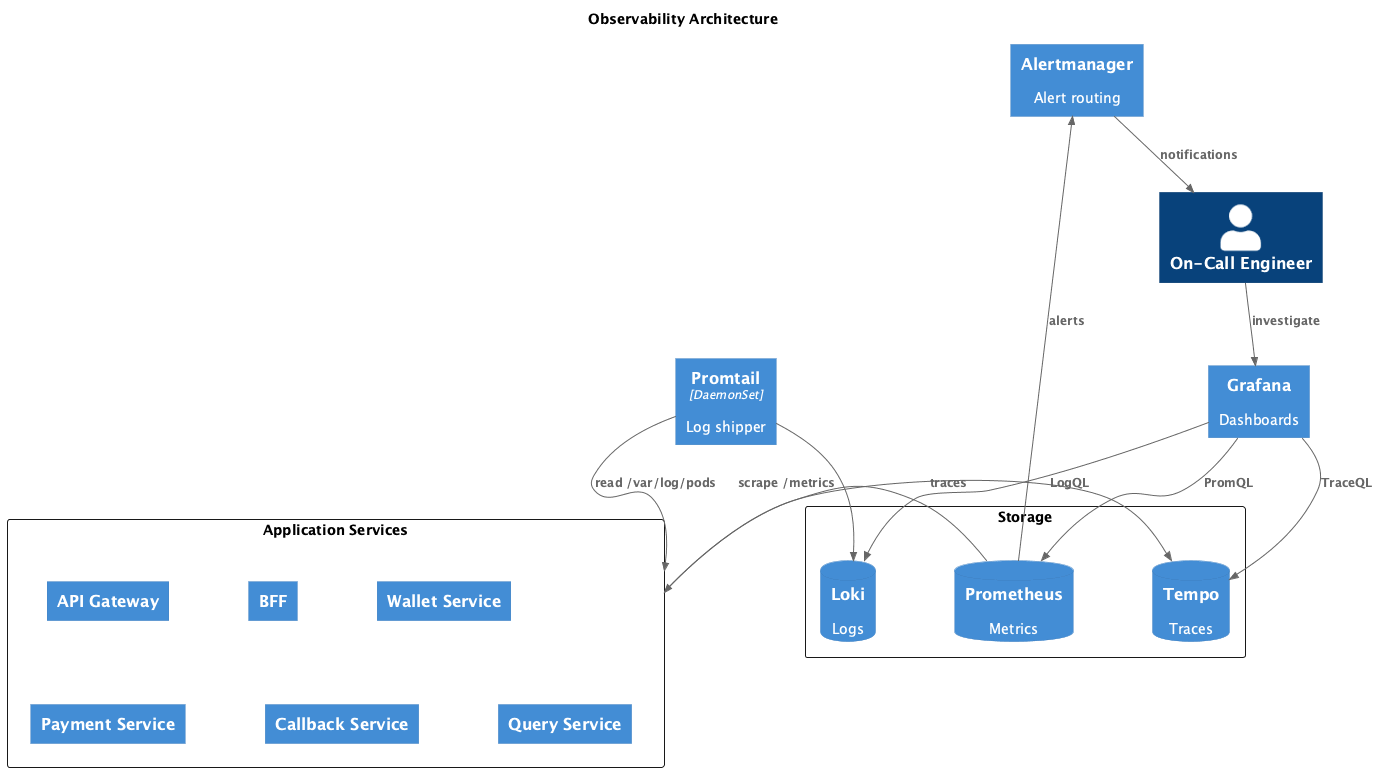
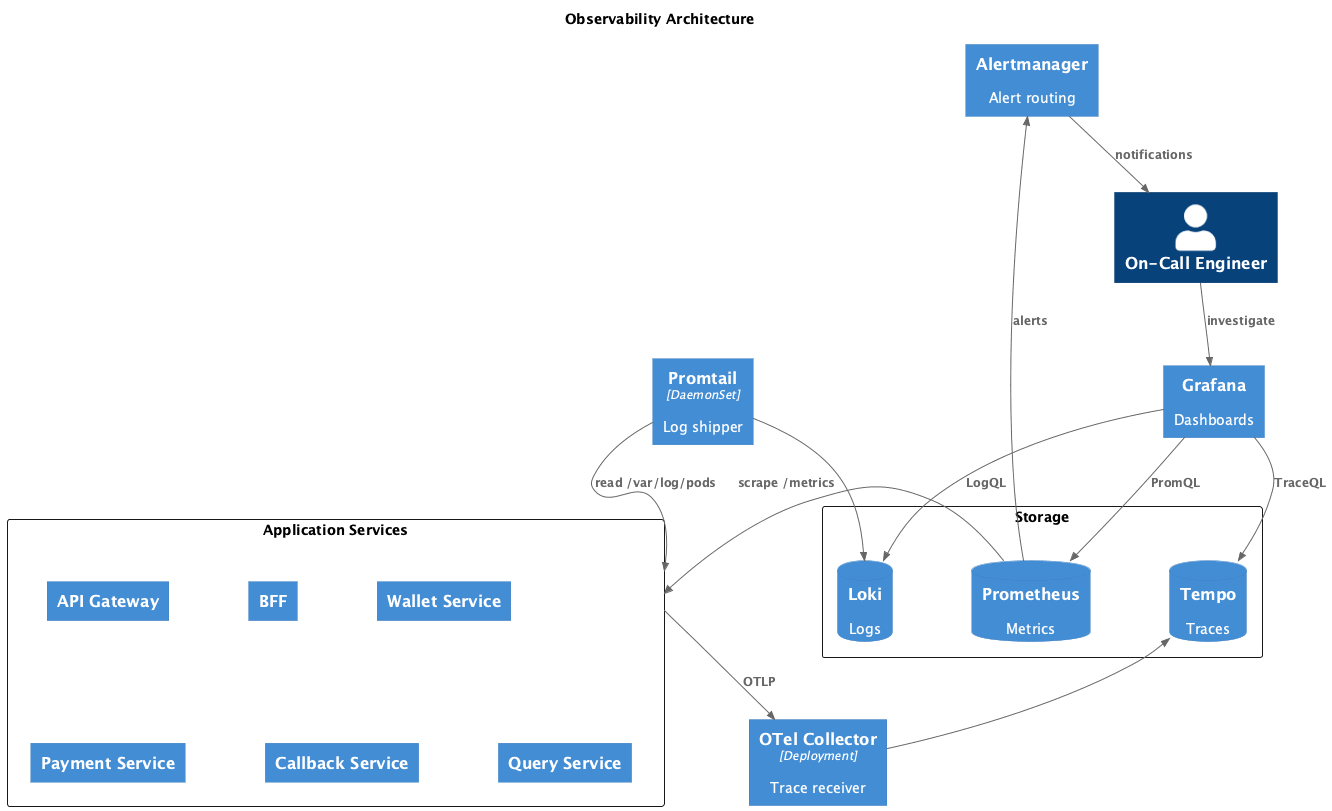
feedback

diff --git a/design/payment/resilience.md b/design/payment/resilience.md
@@ -37,14 +37,14 @@ Rate limits:
 
 - API Gateway (Kong + Redis): 10k RPS global, 100 RPS per customer_id из `X-Customer-ID` header (ставит BFF после auth), для неаутентифицированных — per IP
 
-| Взаимодействие                | Таймаут | Повторы                            | Circuit Breaker  | Bulkhead           | Rate Limit | Fallback             |
-| ----------------------------- | ------- | ---------------------------------- | ---------------- | ------------------ | ---------- | -------------------- |
-| BFF → Wallet                  | 2с      | 2 sync (100ms)                     | нет              | HTTP pool: 100     | —          | нет                  |
-| BFF → Query                   | 2с      | 2 sync (100ms)                     | нет              | HTTP pool: 60      | —          | stale cache (TTL 5м) |
-| Payment → Anti-Fraud          | 500ms   | 1 sync                             | 50% err / 10 req | gRPC pool: 50      | —          | ALLOW (fail-open)    |
-| Payment → Provider            | 30с     | 3 sync (1-2-4с) + 3 async (1-2-4м) | 50% err / 10 req | HTTP pool: 200     | 1000 rps   | DLQ                  |
-| Callback → Payment            | 2с      | 3 sync (exp backoff)               | нет              | —                  | —          | DLQ                  |
-| Notification → SMS/Email/Push | 10с     | 3 sync + 3 async (5м)              | 50% err / 10 req | HTTP pool: 100 × 3 | 500 rps    | DLQ                  |
+| Взаимодействие                | Таймаут | Повторы                            | Circuit Breaker  | Bulkhead           | Rate Limit | Fallback                |
+| ----------------------------- | ------- | ---------------------------------- | ---------------- | ------------------ | ---------- | ----------------------- |
+| BFF → Wallet                  | 2с      | 2 sync (100ms)                     | нет              | HTTP pool: 100     | —          | нет                     |
+| BFF → Query                   | 2с      | 2 sync (100ms)                     | нет              | HTTP pool: 60      | —          | нет                     |
+| Payment → Anti-Fraud          | 500ms   | 1 sync                             | 50% err / 10 req | gRPC pool: 50      | —          | Degraded mode (см ниже) |
+| Payment → Provider            | 30с     | 3 sync (1-2-4с) + 3 async (1-2-4м) | 50% err / 10 req | HTTP pool: 200     | 1000 rps   | DLQ                     |
+| Callback → Payment            | 2с      | 3 sync (exp backoff)               | нет              | —                  | —          | DLQ                     |
+| Notification → SMS/Email/Push | 10с     | 3 sync + 3 async (5м)              | 50% err / 10 req | HTTP pool: 100 × 3 | 500 rps    | DLQ                     |
 
 ## Обоснования
 
@@ -79,10 +79,10 @@ Rate limits:
    Потому что SLO 3с, аналогично Wallet. Query делает SELECT из read-модели — должно быть быстро (~50ms). 2с — запас на сложные запросы (фильтры, пагинация).
 
 2. Retry: 2 sync (100ms)
-   Потому что read-запросы идемпотентны, retry безопасен. При таймауте — сразу fallback на cache, retry только для transient errors (503, connection reset).
+   Потому что read-запросы идемпотентны, retry безопасен.
 
 3. Circuit Breaker: нет
-   Потому что есть fallback на кэш. CB избыточен — при сбое Query сразу отдаём из кэша, не нужно ждать открытия CB.
+   Нет fallback — с CB или без, пользователь получит ошибку. CB добавит cooldown при восстановлении сервиса.
 
 4. Bulkhead: HTTP pool 60
    Отдельный HTTP-пул в BFF для вызовов Query: ~600 RPS × latency 100ms = 60 соединений.
@@ -91,8 +91,8 @@ Rate limits:
 5. Rate Limit: нет (на уровне BFF)
    Потому что rate limit уже применён на API Gateway. Query — read-only сервис, легко масштабируется горизонтально. Дополнительный rate limit избыточен.
 
-6. Fallback: stale cache (Redis, TTL 5м)
-   Потому что история платежей — не real-time данные. Если Query недоступен, отдаём последние закэшированные данные. Пользователь видит историю 5-минутной давности — лучше, чем ошибку. Свежий платёж может не отобразиться сразу — приемлемо.
+6. Fallback: нет
+   Клиент кэширует локально.
 
 **Payment → Anti-Fraud**
 
@@ -114,8 +114,11 @@ Rate limits:
 5. Rate Limit: нет
    Потому что Anti-Fraud — внутренний сервис, масштабируется вместе с Payment. Нагрузка на Anti-Fraud = нагрузка на Payment (1:1). Rate limit на входе в Payment уже защищает Anti-Fraud.
 
-6. Fallback: ALLOW
-   Потому что бизнес-решение: риск пропустить fraudulent платёж при сбое Anti-Fraud меньше, чем потерять 100% платежей.
+6. Fallback: Degraded mode
+   При недоступности Anti-Fraud — ограниченный режим вместо полного fail-open или fail-closed. Платежи до 50 000₽ разрешаются, свыше — отклоняются.
+
+   **Почему не fail-open (ALLOW all):** риск fraud и нарушение регуляторных требований.
+   **Почему не fail-closed (DENY all):** 100% платежей падают, DoS-вектор через атаку на Anti-Fraud.
 
 **Payment → Provider**
 

diff --git a/design/payment/observability.md b/design/payment/observability.md
@@ -24,12 +24,15 @@ SLI/SLO: см. [resilience.md](resilience.md#slislo).
 - `wallet_reserve_total`, `wallet_commit_total`, `wallet_release_total` — операции
 - `wallet_reserve_duration_seconds` — латентность резервирования
 - `wallet_balance_check_failed` — отказы
+- `wallet_outbox_pending_count` — записи в outbox, ожидающие публикации
 
 ### Payment Service
 
 - `payment_created_total`, `payment_completed_total`, `payment_failed_total` — статусы платежей
 - `payment_processing_duration_seconds` — время обработки (p50, p99)
 - `payment_in_processing` — платежи в статусе PROCESSING
+- `payment_outbox_pending_count` — записи в outbox, ожидающие публикации
+- `antifraud_circuit_breaker_state` — состояние CB для Anti-Fraud
 
 ### Callback Service
 
@@ -37,6 +40,7 @@ SLI/SLO: см. [resilience.md](resilience.md#slislo).
 - `callback_processing_duration_seconds` — латентность обработки
 - `callback_signature_invalid_total` — невалидные подписи
 - `callback_duplicate_total` — дубликаты
+- `callback_outbox_pending_count` — записи в outbox, ожидающие публикации
 
 ### Query Service
 
@@ -50,6 +54,7 @@ SLI/SLO: см. [resilience.md](resilience.md#slislo).
 - `kafka_messages_consumed_total`, `kafka_messages_produced_total` — обработанные/опубликованные сообщения
 - `kafka_consumer_processing_seconds` — время обработки сообщения
 - `kafka_dlq_messages_total` — сообщения в DLQ
+- `kafka_retry_queue_depth` — глубина retry топиков (`payments.retry`, `notifications.retry`)
 
 ## Метрики внешнего провайдера
 
@@ -61,12 +66,12 @@ SLI/SLO: см. [resilience.md](resilience.md#slislo).
 
 ## Стек
 
-| Компонент | Технология           | Назначение                                      |
-| --------- | -------------------- | ----------------------------------------------- |
-| Метрики   | Prometheus + Grafana | Сбор (pull) и визуализация метрик               |
-| Логи      | Loki + Promtail      | Promtail (DaemonSet) собирает логи, Loki хранит |
-| Трейсы    | Tempo                | Хранение трейсов, интеграция с Grafana          |
-| Алерты    | Alertmanager         | Группировка, дедупликация, роутинг оповещений   |
+| Компонент | Технология             | Назначение                                      |
+| --------- | ---------------------- | ----------------------------------------------- |
+| Метрики   | Prometheus + Grafana   | Сбор (pull) и визуализация метрик               |
+| Логи      | Loki + Promtail        | Promtail (DaemonSet) собирает логи, Loki хранит |
+| Трейсы    | OTel Collector + Tempo | OTel Collector принимает OTLP, Tempo хранит     |
+| Алерты    | Alertmanager           | Группировка, дедупликация, роутинг оповещений   |
 
 **Почему этот стек:**
 
@@ -76,8 +81,8 @@ SLI/SLO: см. [resilience.md](resilience.md#slislo).
 2. Loki + Promtail
    Promtail — DaemonSet на каждой ноде, читает логи из `/var/log/pods/*`, добавляет labels (pod, namespace). Loki индексирует только labels, не полный текст — дешевле ELK.
 
-3. Tempo
-   Хранит трейсы в S3 без индексации — дешевле Jaeger с Cassandra/Elasticsearch.
+3. OTel Collector + Tempo
+   OTel Collector принимает трейсы по OTLP, буферизует, отправляет в Tempo. Tempo хранит в S3 без индексации — дешевле Jaeger с Cassandra/Elasticsearch.
 
 ## Дашборды
 
@@ -92,12 +97,15 @@ SLI/SLO: см. [resilience.md](resilience.md#slislo).
 
 ### Operational Dashboard
 
-| Панель             | Тип         | Метрика                         |
-| ------------------ | ----------- | ------------------------------- |
-| Availability SLI   | Stat        | `http_requests_total`           |
-| Latency p99        | Stat        | `http_request_duration_seconds` |
-| Error Rate         | Time series | `http_requests_total`           |
-| Kafka Consumer Lag | Time series | `kafka_consumer_lag`            |
+| Панель             | Тип            | Метрика                         |
+| ------------------ | -------------- | ------------------------------- |
+| Availability SLI   | Stat           | `http_requests_total`           |
+| Latency p99        | Stat           | `http_request_duration_seconds` |
+| Error Rate         | Time series    | `http_requests_total`           |
+| Kafka Consumer Lag | Time series    | `kafka_consumer_lag`            |
+| Retry Queue Depth  | Time series    | `kafka_retry_queue_depth`       |
+| Outbox Backlog     | Time series    | `*_outbox_pending_count`        |
+| Circuit Breakers   | State timeline | `*_circuit_breaker_state`       |
 
 ### Provider Health Dashboard
 

diff --git a/design/payment/queues.md b/design/payment/queues.md
@@ -40,16 +40,21 @@
 
 ## DLQ (Dead Letter Queue)
 
-Сервис не смог обработать сообщение из Kafka (баг, ошибка данных, downstream недоступен). После 3 попыток Kafka перекладывает сообщение в DLQ топик.
+Сервис не смог обработать сообщение из Kafka (баг, ошибка данных, downstream недоступен). Consumer отправляет сообщение в DLQ после 3 неудачных попыток обработки.
 
-**Пример:** Payment Service читает из `payments.initiated`, но падает с ошибкой → после 3 retry сообщение уходит в `payments.initiated.dlq`.
+**Пример:** Payment Service читает из `payments.initiated`, но падает с ошибкой → после 3 retry Payment Service публикует сообщение в `payments.initiated.dlq`.
 
-**Обработка DLQ:**
+**Две политики обработки DLQ:**
 
-| DLQ топики                                                                                                       | Что происходит                                          |
-| ---------------------------------------------------------------------------------------------------------------- | ------------------------------------------------------- |
-| payments.initiated.dlq, payments.completed.dlq, payments.failed.dlq, payments.retry.dlq, notifications.retry.dlq | Critical алерт, инженер анализирует, сообщение истекает |
-| callbacks.received.dlq, merchant.callbacks.dlq                                                                   | Cron переотправляет в оригинальный топик через интервал |
+| Политика      | DLQ топики                                     | Что происходит                               |
+| ------------- | ---------------------------------------------- | -------------------------------------------- |
+| Manual review | payments.\*, notifications.retry.dlq           | Алерт, инженер анализирует, retention 7 дней |
+| Auto-retry    | callbacks.received.dlq, merchant.callbacks.dlq | Cron переотправляет в оригинальный топик     |
+
+**Почему разные политики:**
+
+- **Manual review** для payment events: ошибка обработки `PaymentInitiated` или `PaymentCompleted` — скорее баг в коде или проблема с данными. Автоматический retry не поможет, нужен анализ.
+- **Auto-retry** для callbacks: внешние события от провайдера или для мерчанта. Ошибка может быть transient (сеть, временная недоступность). Retry имеет смысл.
 
 **Retention:** 7 дней. Сообщения удаляются автоматически.
 

diff --git a/design/messaging.md b/design/messaging.md
@@ -44,7 +44,7 @@ Sync/async паттерны, события, топики.
 
 | Топик                 | Partition Key   | События                   | Консьюмеры                  |
 | --------------------- | --------------- | ------------------------- | --------------------------- |
-| `payments.initiated`  | wallet_id       | PaymentInitiated          | Payment, Query              |
+| `payments.initiated`  | payment_id      | PaymentInitiated          | Payment, Query              |
 | `payments.completed`  | payment_id      | PaymentCompleted          | Wallet, Query, Notification |
 | `payments.failed`     | payment_id      | PaymentFailed             | Wallet, Query, Notification |
 | `callbacks.received`  | provider_txn_id | ProviderCallbackReceived  | Payment                     |
